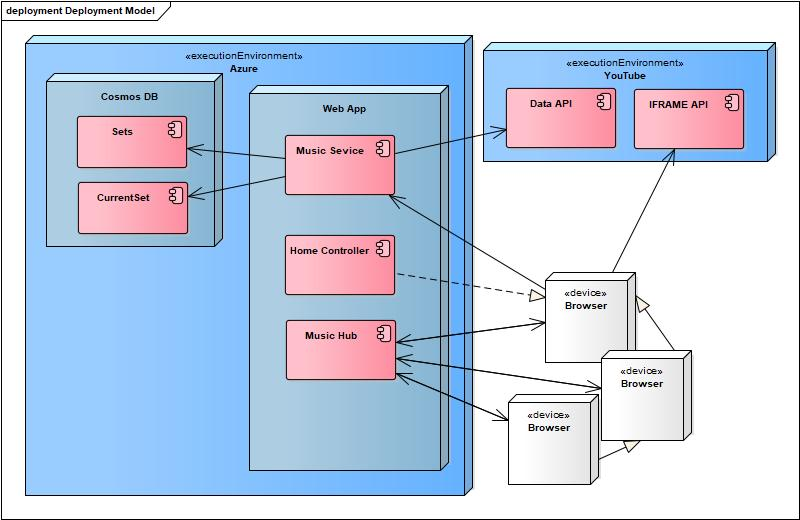
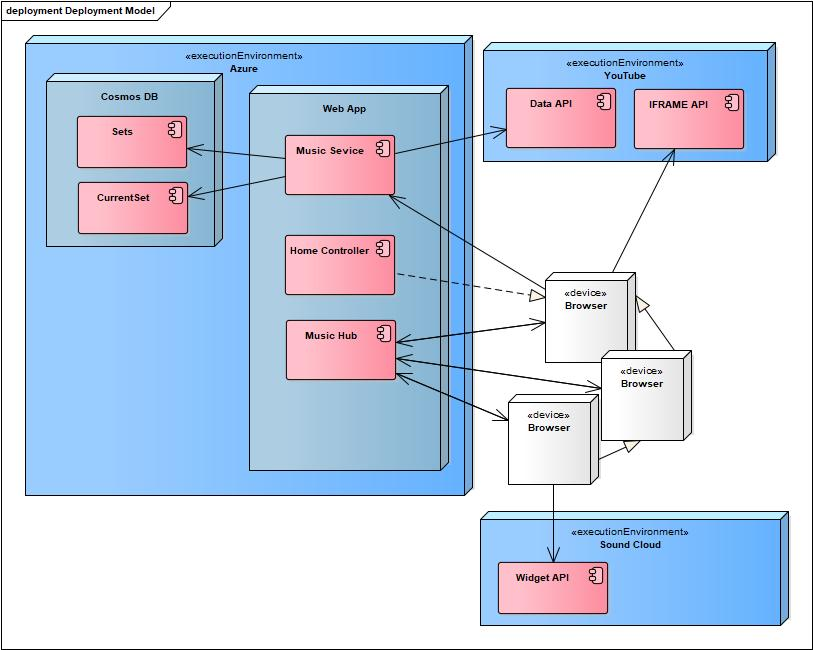
sound cloud bug fix

diff --git a/trasformation.run.Radio/wwwroot/js/YoutubePlaylist.ts b/trasformation.run.Radio/wwwroot/js/YoutubePlaylist.ts
@@ -134,11 +134,9 @@ export class PlayistPlayer{
                 })
                 widget.bind(SC.Widget.Events.READY, () => {
                     widget.play();
-                    widget.bind(SC.Widget.Events.PLAY, () => {
-                        widget.getCurrentSound(sound => {
-                            song.name = sound.user.username + ' - ' + sound.title;
-                            set.playedSongs.push(song);
-                        });
+                    widget.getCurrentSound(sound => {
+                        song.name = sound.user.username + ' - ' + sound.title;
+                        set.playedSongs.push(song);
                     });
                     widget.bind(SC.Widget.Events.FINISH, () => this.PlaySet());
                 });

diff --git a/trasformation.run.Radio/wwwroot/js/YoutubePlaylist.js b/trasformation.run.Radio/wwwroot/js/YoutubePlaylist.js
@@ -113,11 +113,9 @@ class PlayistPlayer {
                 });
                 widget.bind(SC.Widget.Events.READY, () => {
                     widget.play();
-                    widget.bind(SC.Widget.Events.PLAY, () => {
-                        widget.getCurrentSound(sound => {
-                            song.name = sound.user.username + ' - ' + sound.title;
-                            set.playedSongs.push(song);
-                        });
+                    widget.getCurrentSound(sound => {
+                        song.name = sound.user.username + ' - ' + sound.title;
+                        set.playedSongs.push(song);
                     });
                     widget.bind(SC.Widget.Events.FINISH, () => this.PlaySet());
                 });

diff --git a/trasformation.run.Radio/wwwroot/js/YoutubePlaylist_fixed.js b/trasformation.run.Radio/wwwroot/js/YoutubePlaylist_fixed.js
@@ -111,11 +111,9 @@ class PlayistPlayer {
                 });
                 widget.bind(SC.Widget.Events.READY, () => {
                     widget.play();
-                    widget.bind(SC.Widget.Events.PLAY, () => {
-                        widget.getCurrentSound(sound => {
-                            song.name = sound.user.username + ' - ' + sound.title;
-                            set.playedSongs.push(song);
-                        });
+                    widget.getCurrentSound(sound => {
+                        song.name = sound.user.username + ' - ' + sound.title;
+                        set.playedSongs.push(song);
                     });
                     widget.bind(SC.Widget.Events.FINISH, () => this.PlaySet());
                 });
